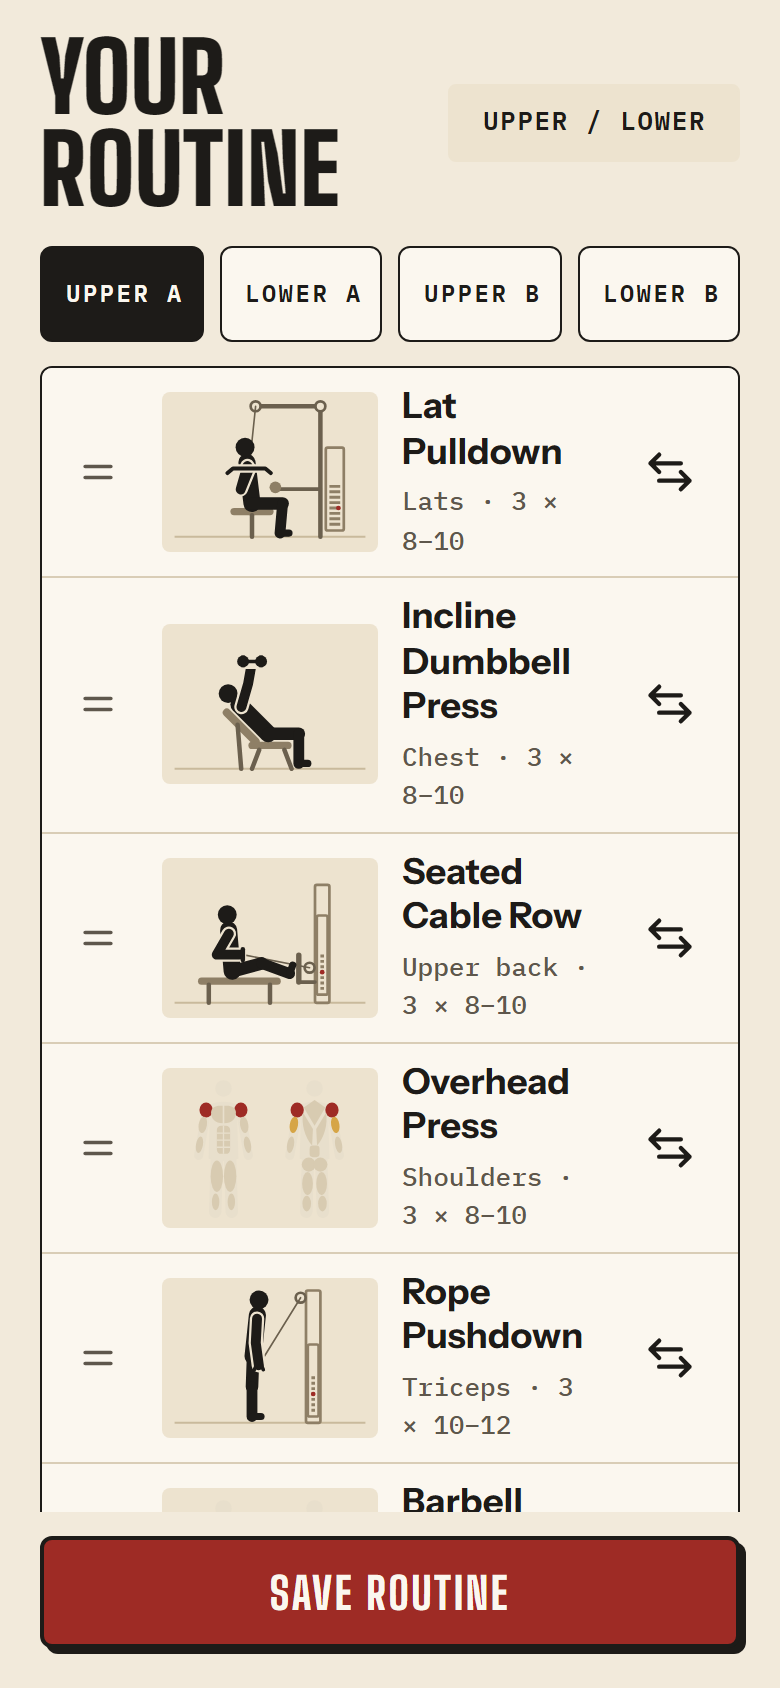
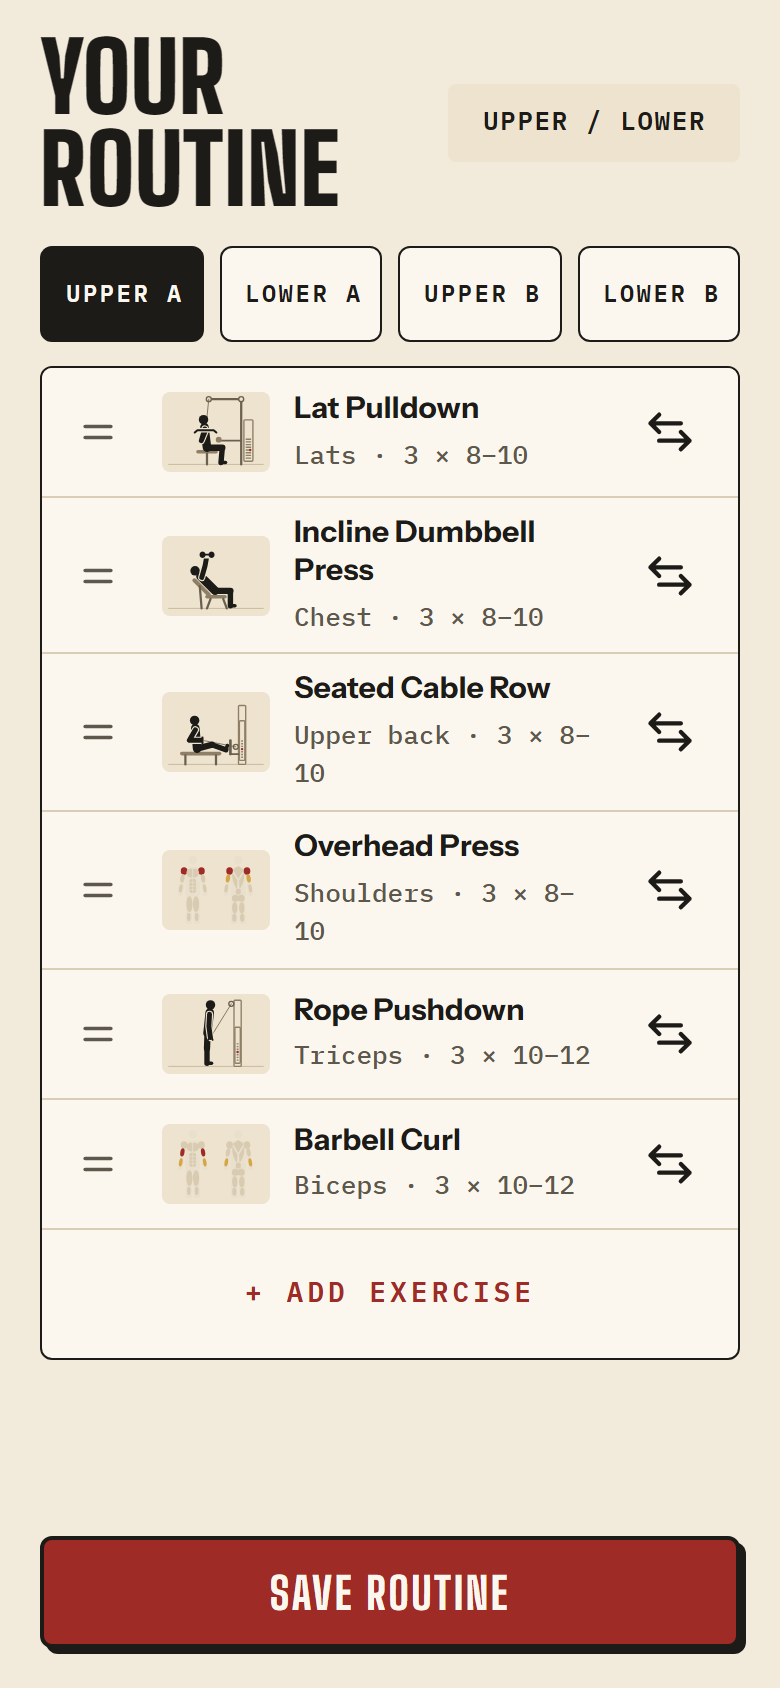
M1: log a workout (seed library, engines, pictograms, onboarding → ticket, backup)
FR-LIB-1/2, FR-ONB-1…6, FR-RTN-1/2/4/5, FR-WRK-1…14, FR-TMR-1…4, FR-GOAL-1…5, FR-PRG-1…6,
FR-SUM-1, FR-ILL-1/3, FR-DATA-1/3/4/5. 223 unit tests, e2e 52/52.

diff --git a/src/screens/S09-summary/index.tsx b/src/screens/S09-summary/index.tsx
@@ -3,7 +3,7 @@ import { Button } from '@/components/Button';
 import { en } from '@/copy/en';
 import { formatInt, longDate } from '@/copy/format';
 import { bonusPercent } from '@/engine/summary';
-import { displayNumber, formatLoad, hasLoad, toDisplay } from '@/engine/units';
+import { displayNumber, formatLoad, fromDisplay, hasLoad, toDisplay } from '@/engine/units';
 import { useTicket } from './useTicket';
 
 /** S09 session ticket (FR-SUM-1). XP, share and milestones join in M5. */
@@ -46,7 +46,14 @@ export default function Summary() {
       <article className="ll-card ll-card-hard relative mt-4" aria-label={`${model.session.name} ticket`}>
         <div className="relative px-5 pb-5 pt-5">
           <p className="t-label">{en.summary.ticket(String(t.number).padStart(3, '0'))}</p>
-          <h1 className="t-display mt-1 break-words pr-[120px] text-[64px]">{model.session.name}</h1>
+          <h1
+            className="t-display mt-1 break-words pr-[104px]"
+            style={{
+              fontSize: model.session.name.length <= 7 ? 58 : model.session.name.length <= 10 ? 46 : 36,
+            }}
+          >
+            {model.session.name}
+          </h1>
           <p className="t-mono mt-2 text-[14px] font-semibold uppercase text-ink2">
             {longDate(model.session.startedAt)} · {en.summary.week(model.weekNumber)}
           </p>
@@ -119,9 +126,14 @@ export default function Summary() {
                 {p.exercise?.name} · {displayNumber(p.loadKg, units)} {units} × {p.reps}
               </p>
               <p className="t-mono text-[12px] text-ink2">
+                {/* e1RMs are estimates: whole numbers, like the mockup ("35 kg / hand (was 32)"). */}
                 {en.summary.prLine(
-                  formatLoad(p.e1rm, p.exercise?.loadType ?? 'barbell', units),
-                  displayNumber(p.prevE1rm, units),
+                  formatLoad(
+                    fromDisplay(Math.round(toDisplay(p.e1rm, units)), units),
+                    p.exercise?.loadType ?? 'barbell',
+                    units,
+                  ),
+                  String(Math.round(toDisplay(p.prevE1rm, units))),
                 )}
               </p>
             </div>

diff --git a/src/screens/S06-workout/index.tsx b/src/screens/S06-workout/index.tsx
@@ -55,7 +55,7 @@ export default function Workout() {
     <main className="flex grow flex-col pb-[calc(20px+env(safe-area-inset-bottom))]">
       <ScreenHeader
         title={model.session.name}
-        size={48}
+        size={34}
         subtitle={en.workout.sessionWeek(model.sessionNumber, model.weekNumber)}
         backTo="/"
       />
@@ -101,12 +101,12 @@ export default function Workout() {
                       : 'border-[1.5px] border-rule'
                 }`}
               >
-                <ExerciseThumb exercise={it.exercise} className="h-[64px] w-[88px]" />
+                <ExerciseThumb exercise={it.exercise} className="h-[42px] w-[58px]" />
                 <span className="min-w-0 grow">
-                  <span className="block text-[19px] font-bold leading-tight tracking-[-0.01em]">
+                  <span className="block text-[15px] font-bold leading-tight tracking-[-0.01em]">
                     {it.exercise.name}
                   </span>
-                  <span className="t-mono mt-1 block text-[13px] text-ink2">{targetLine(it, units)}</span>
+                  <span className="t-mono mt-0.5 block text-[11px] text-ink2">{targetLine(it, units)}</span>
                 </span>
                 <span className="flex shrink-0 flex-col items-end gap-2">
                   {chip}
@@ -119,10 +119,14 @@ export default function Workout() {
       </ul>
 
       <div className="grid grid-cols-2 gap-2.5 px-5 pt-3">
-        <Button variant="ghost" onClick={() => setAdding(true)} className="h-14">
+        <Button
+          variant="ghost"
+          onClick={() => setAdding(true)}
+          className="h-14 whitespace-nowrap !px-3 !text-[16px]"
+        >
           <Icon name="list" /> {en.workout.addFromList}
         </Button>
-        <Link to="/scan" className="ll-btn h-14" data-variant="ghost">
+        <Link to="/scan" className="ll-btn h-14 whitespace-nowrap !px-3 !text-[16px]" data-variant="ghost">
           <Icon name="scan" /> {en.workout.scan}
         </Link>
       </div>

diff --git a/src/components/ExerciseRow.tsx b/src/components/ExerciseRow.tsx
@@ -25,7 +25,7 @@ export function ExerciseRow({
   dimmed = false,
   right,
   onClick,
-  thumbClass = 'h-[58px] w-[84px]',
+  thumbClass = 'h-[42px] w-[58px]',
 }: {
   exercise: Exercise;
   meta?: string;
@@ -38,9 +38,14 @@ export function ExerciseRow({
   const body = (
     <>
       <ExerciseThumb exercise={exercise} className={`${thumbClass} ${dimmed ? 'opacity-45' : ''}`} />
-      <span className={`min-w-0 grow ${dimmed ? 'opacity-60' : ''}`}>
-        <span className="block text-[17px] font-bold leading-tight tracking-[-0.01em]">{exercise.name}</span>
-        <span className="t-mono mt-1 block text-[12.5px] text-ink2">{meta ?? exerciseMeta(exercise)}</span>
+      {/* Dimmed rows keep text at full contrast (NFR-A11Y-1); only the picture fades. */}
+      <span className="min-w-0 grow">
+        <span
+          className={`block text-[15px] font-bold leading-tight tracking-[-0.01em] ${dimmed ? 'text-ink2' : ''}`}
+        >
+          {exercise.name}
+        </span>
+        <span className="t-mono mt-0.5 block text-[11px] text-ink2">{meta ?? exerciseMeta(exercise)}</span>
         {alias && <span className="mt-0.5 block text-[13px] italic text-ink2">{en.library.also(alias)}</span>}
       </span>
       {dimmed && (

diff --git a/src/screens/S04-routine/RoutineBuilder.tsx b/src/screens/S04-routine/RoutineBuilder.tsx
@@ -92,7 +92,7 @@ export function RoutineBuilder({
   return (
     <>
       <div className="flex items-center justify-between gap-3 px-5 pt-4">
-        <h1 className="t-display text-[48px]">{en.routine.title}</h1>
+        <h1 className="t-display whitespace-nowrap text-[38px]">{en.routine.title}</h1>
         <Chip variant="soft" className="!px-4 !py-2.5 !text-[13px]">
           {splitName}
         </Chip>
@@ -158,10 +158,10 @@ export function RoutineBuilder({
                 >
                   <Icon name="drag" />
                 </button>
-                <ExerciseThumb exercise={ex} className="h-[80px] w-[108px]" />
+                <ExerciseThumb exercise={ex} className="h-10 w-[54px]" />
                 <span className="min-w-0 grow">
-                  <span className="block text-[18px] font-bold leading-tight">{ex.name}</span>
-                  <span className="t-mono mt-1 block text-[13px] text-ink2">
+                  <span className="block text-[15px] font-bold leading-tight">{ex.name}</span>
+                  <span className="t-mono mt-0.5 block text-[11px] text-ink2">
                     {muscleName(ex.primary[0])} · {p.sets} × {p.repMin}–{p.repMax}
                   </span>
                 </span>

diff --git a/src/components/SetDots.tsx b/src/components/SetDots.tsx
@@ -12,21 +12,19 @@ export function SetDots({ dots, currentIdx }: { dots: Dot[]; currentIdx?: number
           return (
             <span
               key={i}
-              className={`flex h-[22px] w-[22px] items-center justify-center rounded-full ${
+              className={`flex h-[18px] w-[18px] items-center justify-center rounded-full ${
                 d === 'bonus' ? 'bg-brass text-on-brass' : 'bg-ink text-card'
               }`}
             >
-              <Icon name="check" size={13} strokeWidth={3.4} />
+              <Icon name="check" size={11} strokeWidth={3.4} />
             </span>
           );
         if (d === 'missed')
-          return (
-            <span key={i} className="h-[22px] w-[22px] rounded-full border-[2.5px] border-ink2 bg-panel" />
-          );
+          return <span key={i} className="h-[18px] w-[18px] rounded-full border-2 border-ink2 bg-panel" />;
         return (
           <span
             key={i}
-            className={`h-[22px] w-[22px] rounded-full border-[2.5px] ${cur ? 'border-accent' : 'border-rule'}`}
+            className={`h-[18px] w-[18px] rounded-full border-2 ${cur ? 'border-accent' : 'border-rule'}`}
           />
         );
       })}

diff --git a/src/screens/S05-home/index.tsx b/src/screens/S05-home/index.tsx
@@ -156,9 +156,14 @@ export default function Home() {
                 )}
               </p>
               <div className="mt-3 flex gap-[5px] overflow-hidden" aria-hidden="true">
-                {preview.exs.slice(0, 6).map((e) => (
+                {preview.exs.slice(0, preview.exs.length > 5 ? 4 : 5).map((e) => (
                   <ExerciseThumb key={e.id} exercise={e} className="h-10 w-14" />
                 ))}
+                {preview.exs.length > 5 && (
+                  <span className="t-num flex h-10 w-14 items-center justify-center rounded bg-panel text-[13px] text-ink2">
+                    +{preview.exs.length - 4}
+                  </span>
+                )}
               </div>
               <p className="mt-3 flex items-start gap-2 text-[13px] leading-snug">
                 <Icon name="check" size={18} strokeWidth={2.6} className="mt-px shrink-0" />

diff --git a/src/screens/S15-plan/index.tsx b/src/screens/S15-plan/index.tsx
@@ -30,7 +30,7 @@ export default function Plan() {
   if (!routine) {
     return (
       <main className="px-5 pt-4">
-        <h1 className="t-display text-[48px]">{en.plan.title}</h1>
+        <h1 className="t-display text-[40px]">{en.plan.title}</h1>
         <div className="mt-4">
           <EmptyState
             action={
@@ -50,7 +50,7 @@ export default function Plan() {
   return (
     <main className="px-5 pt-4">
       <div className="flex items-center justify-between gap-3">
-        <h1 className="t-display text-[48px]">{en.plan.title}</h1>
+        <h1 className="t-display text-[40px]">{en.plan.title}</h1>
         <Chip variant="soft" className="!px-4 !py-2.5 !text-[13px]">
           {splitById(routine.splitId)?.name ?? ''}
         </Chip>

diff --git a/src/screens/S13-library/index.tsx b/src/screens/S13-library/index.tsx
@@ -80,7 +80,7 @@ export default function Library() {
             exercise={r.exercise}
             alias={r.alias}
             dimmed={!r.available}
-            thumbClass="h-[64px] w-[92px]"
+            thumbClass="h-[42px] w-[58px]"
           />
         </Link>
       </li>,
@@ -90,7 +90,7 @@ export default function Library() {
   return (
     <main className="px-5 pt-4">
       <div className="flex items-center justify-between gap-3">
-        <h1 className="t-display text-[48px]">{en.library.title}</h1>
+        <h1 className="t-display text-[40px]">{en.library.title}</h1>
         <Chip variant="soft" className="!px-4 !py-2.5 !text-[13px]">
           {en.library.count(total)}
         </Chip>

diff --git a/src/dev/fixture.ts b/src/dev/fixture.ts
@@ -113,11 +113,12 @@ export async function loadFixture(opts: FixtureOptions = {}): Promise<void> {
   }
 
   for (let i = 0; i < plans.length; i++) {
-    const { t } = plans[i]!;
+    const leaveOpen = opts.active && i === plans.length - 1;
+    // An open session must be recent, or the 3 h idle rule (FR-WRK-12) finishes it on load.
+    const t = leaveOpen ? now - 15 * 60_000 : plans[i]!.t;
     const rs = sessions[rot % sessions.length]!;
     rot++;
     const ids = [...rs.items].sort((a, b) => a.order - b.order).map((x) => x.exerciseId);
-    const leaveOpen = opts.active && i === plans.length - 1;
     const s = await startSession({
       routineId: routine.id,
       routineSessionId: rs.id,

diff --git a/src/screens/S07-logger/index.tsx b/src/screens/S07-logger/index.tsx
@@ -126,7 +126,8 @@ export default function Logger() {
   const isMachine = !!ex.machineId;
   const done = item.complete && !extra;
   const idx = item.nextIdx;
-  const pendingWarmups = g.warmups.slice(item.warmupsLogged.length);
+  // Warm-ups are offered until the first work set; after that they're skipped, not nagged about.
+  const pendingWarmups = item.work.length ? [] : g.warmups.slice(item.warmupsLogged.length);
   const unitLabel = loadUnitLabel(lt, units);
   const incDisplay = incrementIn(units, ex.incrementKg, lt) || (units === 'kg' ? 1 : 2);
   const doneCount = Math.min(item.progress.logged, g.sets);

diff --git a/scripts/shoot.ts b/scripts/shoot.ts
@@ -31,8 +31,9 @@ for (const theme of ['paper', 'iron'] as const) {
   }
   for (const pair of pairs) {
     // name=/route or name=/route|css-selector-to-click-after-load
-    const [name, spec] = pair.split('=');
-    const [route, click] = spec!.split('|');
+    const eq = pair.indexOf('=');
+    const name = pair.slice(0, eq);
+    const [route, click] = pair.slice(eq + 1).split('|');
     await page.goto(base + route);
     await page.waitForLoadState('networkidle');
     if (click) {

diff --git a/src/screens/S12-progress/index.tsx b/src/screens/S12-progress/index.tsx
@@ -16,7 +16,7 @@ export default function Progress() {
   );
   return (
     <main className="px-5 pt-4">
-      <h1 className="t-display text-[48px]">{en.progress.title}</h1>
+      <h1 className="t-display text-[40px]">{en.progress.title}</h1>
       <h2 className="t-label mt-5">{en.progress.history}</h2>
       {sessions && sessions.length === 0 && (
         <div className="mt-2">
